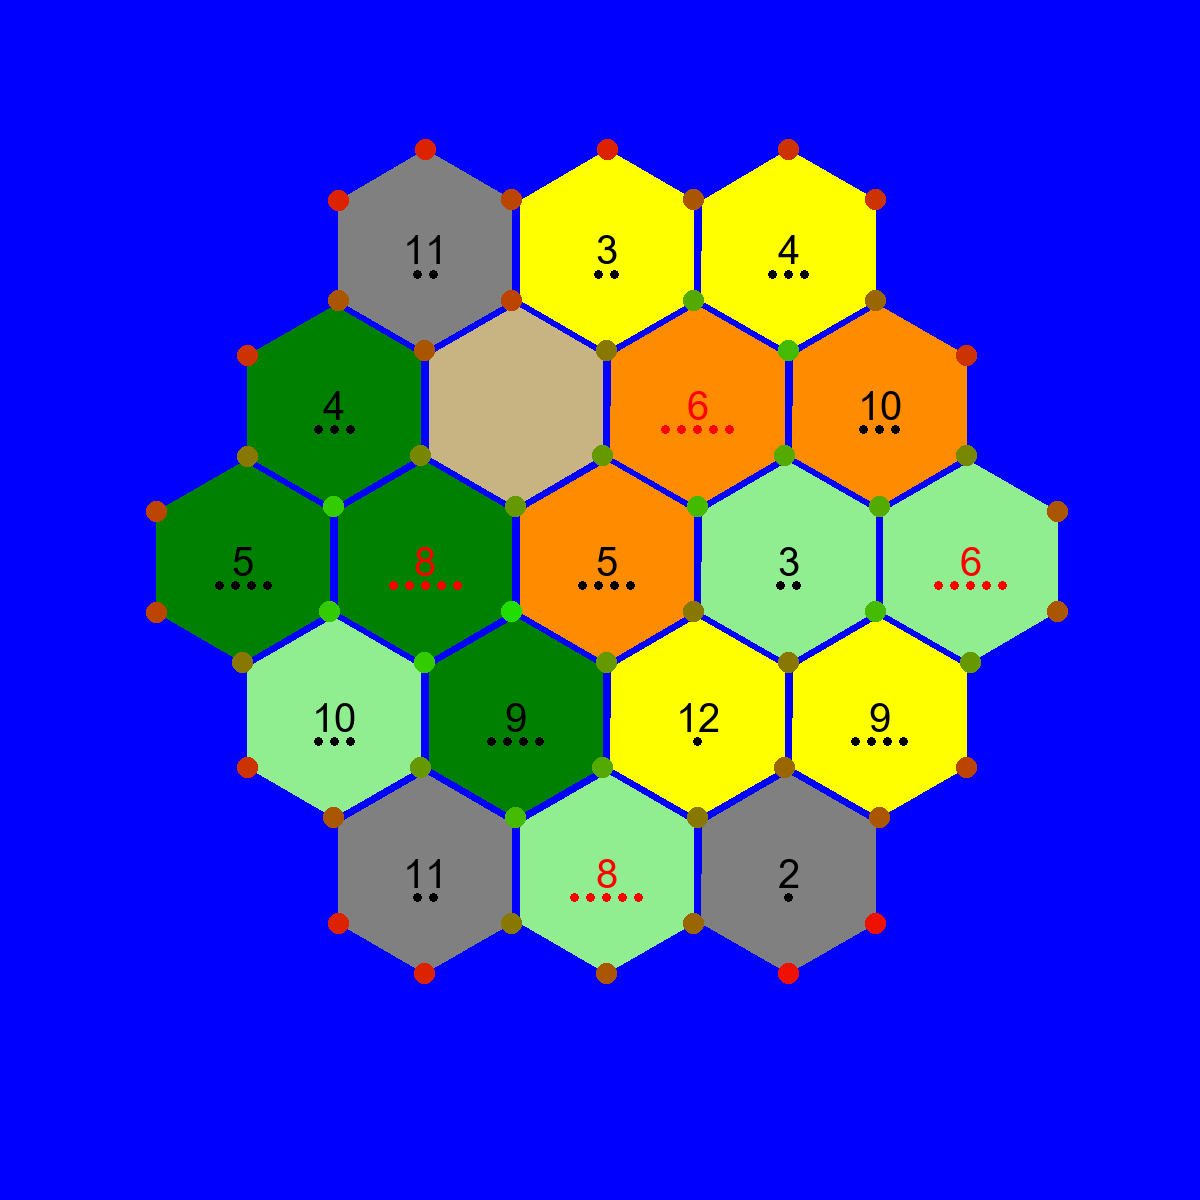
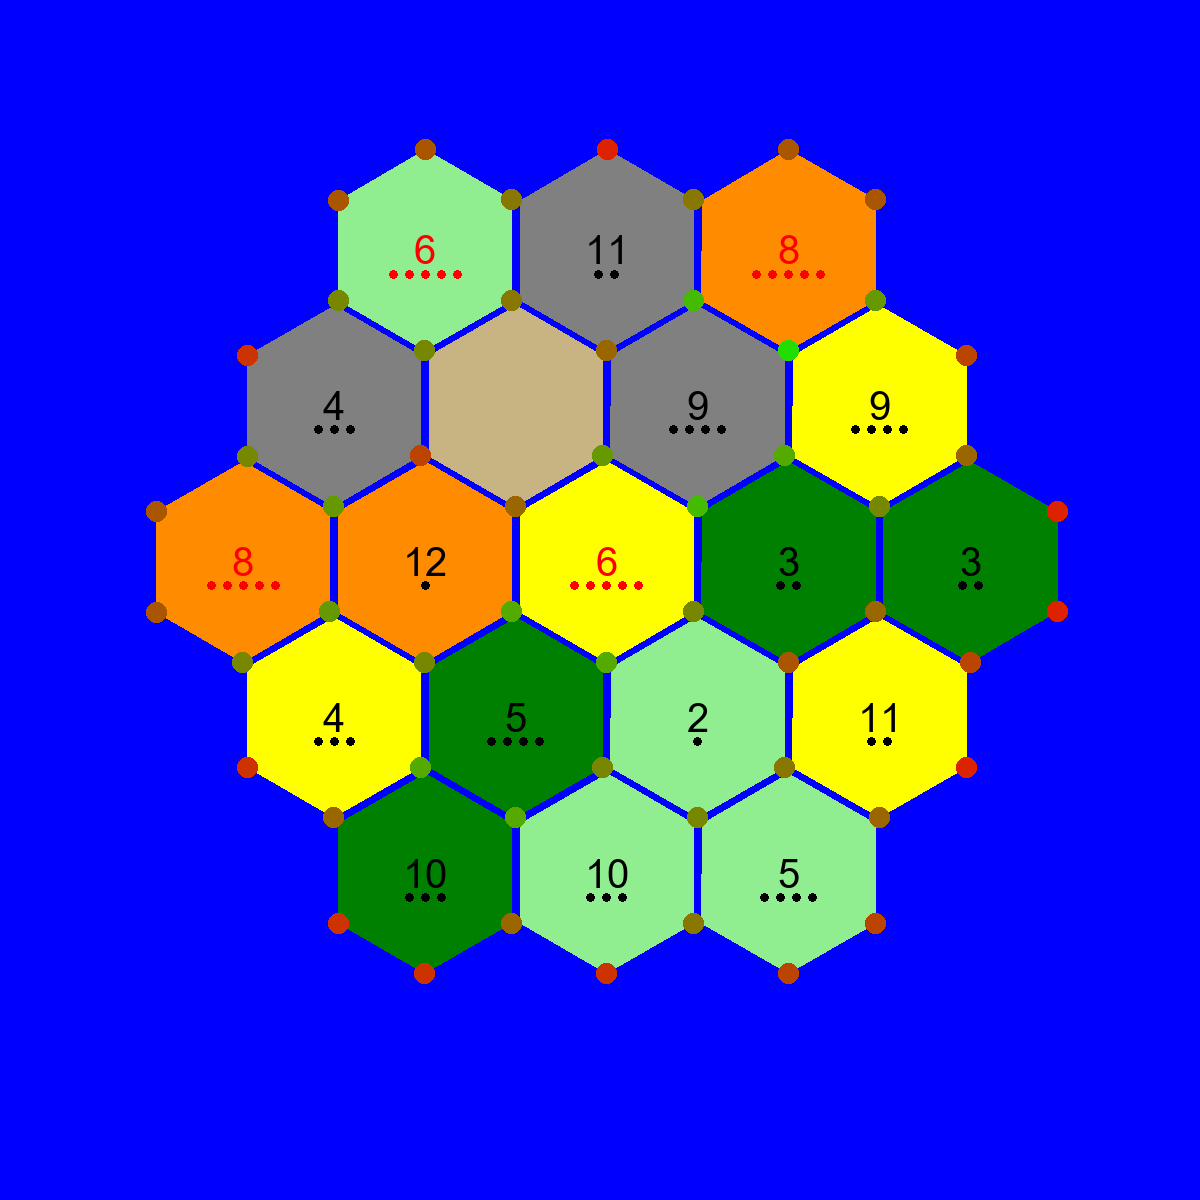
checkboxes

diff --git a/templates/index.html b/templates/index.html
@@ -19,6 +19,22 @@
         <button onclick="processImage()">Generate Board</button>
     </div>
 
+    <div class="checkbox-container">
+        <h2>Generation Settings</h2>
+    </div>
+    
+    <form>
+        <div class="checkbox-container">
+            <label for="highCheckbox">6 & 8 Don't Touch</label>
+            <input type="checkbox" id="highCheckbox" name="highbool" onchange="updateCheckbox('highbool', this.checked)">
+        </div>
+
+        <div class="checkbox-container">
+            <label for="lowCheckbox">2 & 12 Don't Touch</label>
+            <input type="checkbox" id="lowCheckbox" name="lowbool" onchange="updateCheckbox('lowbool', this.checked)">
+        </div>
+    </form>
+
     <div id="img-container">
         <h2>Current Board:</h2>
         <div id="result-container"></div>

diff --git a/static/script.js b/static/script.js
@@ -39,3 +39,17 @@ async function processImage() {
         console.error('Error generating board:', error);
     }
 }
+
+// JavaScript function
+function updateCheckbox(name, value) {
+    // Create a new XMLHttpRequest object
+    var xhr = new XMLHttpRequest();
+
+    // Configure it: GET-request for the /update_checkbox endpoint with parameters
+    xhr.open('GET', '/update_checkbox?name=' + name + '&value=' + value, true);
+
+    // Send the request
+    xhr.send();
+}
+
+

diff --git a/static/style.css b/static/style.css
@@ -6,6 +6,10 @@ body {
     margin: 0; /* Remove default margin */
 }
 
+.checkbox-container {
+    margin-left: 20px; /* Adjust the left margin as needed */
+}
+
 #heading {
     width: 100%;
     text-align: center;

diff --git a/app.py b/app.py
@@ -55,6 +55,9 @@ adjacencies =[
     [14,15,17]
 ]
 
+highbool = False
+lowbool = False
+
 #----------------------------------------------------------------------------------------------------------------------------------------------------------
 #   FLASK
 #----------------------------------------------------------------------------------------------------------------------------------------------------------
@@ -77,6 +80,31 @@ def generate_board():
 
     image_path = 'static/generated_image.png'
     return jsonify({'image_path': image_path})
+
+# Flask route
+@app.route('/update_checkbox', methods=['GET'])
+def update_checkbox():
+    global highbool, lowbool
+
+    # Get the name and value parameters from the query string
+    name = request.args.get('name')
+    value = request.args.get('value') == 'true'  # Convert the string to a boolean
+
+    # Update the corresponding variable based on the checkbox name
+    if name == 'highbool':
+        highbool = value
+        if not value:
+            # highCheckbox is deselected, set highbool to False
+            highbool = False
+    elif name == 'lowbool':
+        lowbool = value
+        if not value:
+            # lowCheckbox is deselected, set lowbool to False
+            lowbool = False
+
+    # Return a JSON response indicating success
+    return jsonify({'success': True})
+
 
 #----------------------------------------------------------------------------------------------------------------------------------------------------------
 #   BOARD GENERATOR
@@ -117,17 +145,34 @@ def generate_board():
 # FAIR BOARD GENERATOR
 #----------------------------------------------------------------------------------------------------------------------------------------------------------
 
-def check_fairness(board):
+# 6 & 8
+def check_fairness_high(board):
     for i in range(19):
         for j in adjacencies[i]:
             if(board[i][1] == 6 and board[j][1] == 6 or board[i][1] == 8 and board[j][1] == 6 or board[i][1] == 6 and board[j][1] == 8 or board[i][1] == 8 and board[j][1] == 8):
                 return False
     return True
 
+# 2 & 12
+def check_fairness_low(board):
+    for i in range(19):
+        for j in adjacencies[i]:
+            if(board[i][1] == 2 and board[j][1] == 12 or board[i][1] == 12 and board[j][1] == 2):
+                return False
+    return True
+
 def generate_fair_board():
     board = generate_board()
-    while(not check_fairness(board)):
-        board = generate_board()
+    if(highbool and lowbool):
+        while(not (check_fairness_high(board) and check_fairness_low(board))):
+            board = generate_board()
+    elif(highbool):
+        while(not (check_fairness_high(board))):
+            board = generate_board()
+    elif(lowbool):
+        while(not (check_fairness_low(board))):
+            board = generate_board()
+    
     return board
     
 #----------------------------------------------------------------------------------------------------------------------------------------------------------
